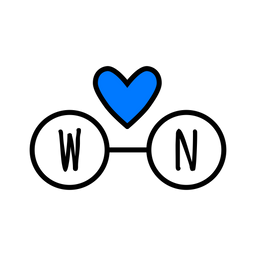
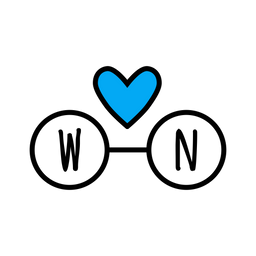
deploy: Gatsby Site

Changed region(s): [[0.375, 0.2812, 0.625, 0.5]]

diff --git a/sw.js b/sw.js
@@ -28,35 +28,35 @@ workbox.core.clientsClaim();
 self.__precacheManifest = [
   {
     "url": "icons/icon-144x144.png",
-    "revision": "7fd089970ef7b8476a9146af82bf454a"
+    "revision": "639c3e75ec46a4d16f02d5505c47b8e4"
   },
   {
     "url": "icons/icon-192x192.png",
-    "revision": "45c47a44f5ed3a4eee29bfb29ece1f31"
+    "revision": "9c15b590dbcd93ee5a4eeec1b29ae3b5"
   },
   {
     "url": "icons/icon-256x256.png",
-    "revision": "a6cde1282dc0eba5b1fa7291e4566259"
+    "revision": "0dae9702ccd62a9930ff5208a3688334"
   },
   {
     "url": "icons/icon-384x384.png",
-    "revision": "effe48a2d74df803b04efe5fdbc2f246"
+    "revision": "332d5c3d8b2280c14341af73ce9ca8c3"
   },
   {
     "url": "icons/icon-48x48.png",
-    "revision": "b1b8670c5f4bfc40f21baf1078650c98"
+    "revision": "a59e774d601b4b391630d8f6cb8f01b1"
   },
   {
     "url": "icons/icon-512x512.png",
-    "revision": "994d2e6b31a645862347caaa939badee"
+    "revision": "bcd5ec57a9a9b5ad790b92b6ff67ae7c"
   },
   {
     "url": "icons/icon-72x72.png",
-    "revision": "bfcc96ea0a083a7c2a6afeb8680d0903"
+    "revision": "49441ebebd8148c9fb6b2b4cb4356e36"
   },
   {
     "url": "icons/icon-96x96.png",
-    "revision": "453cd61d203d0eee738c32b3bfd0edc6"
+    "revision": "5ae7b51a7096f2d0497e196d8c65ef07"
   },
   {
     "url": "framework-96f2a45b7f57ca14c9e2.js"
